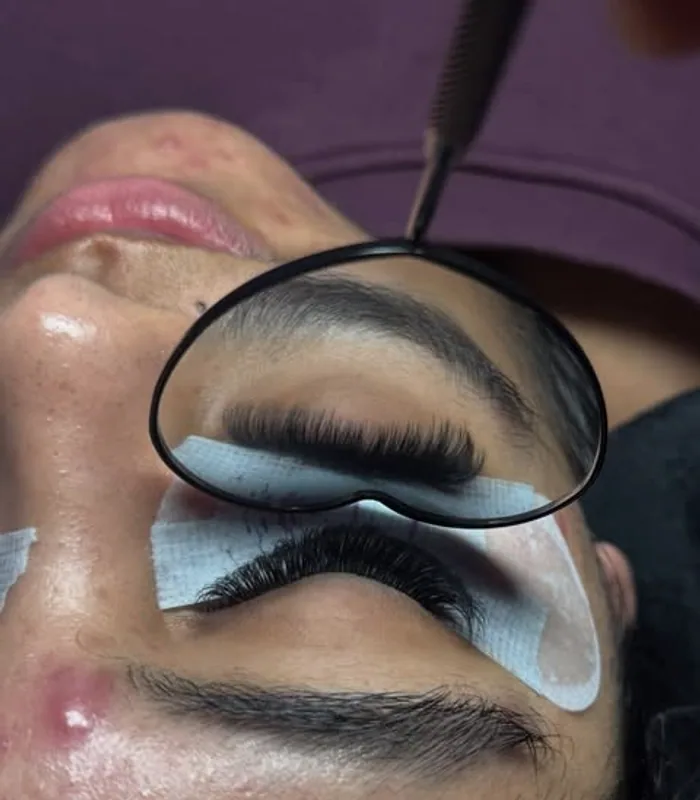
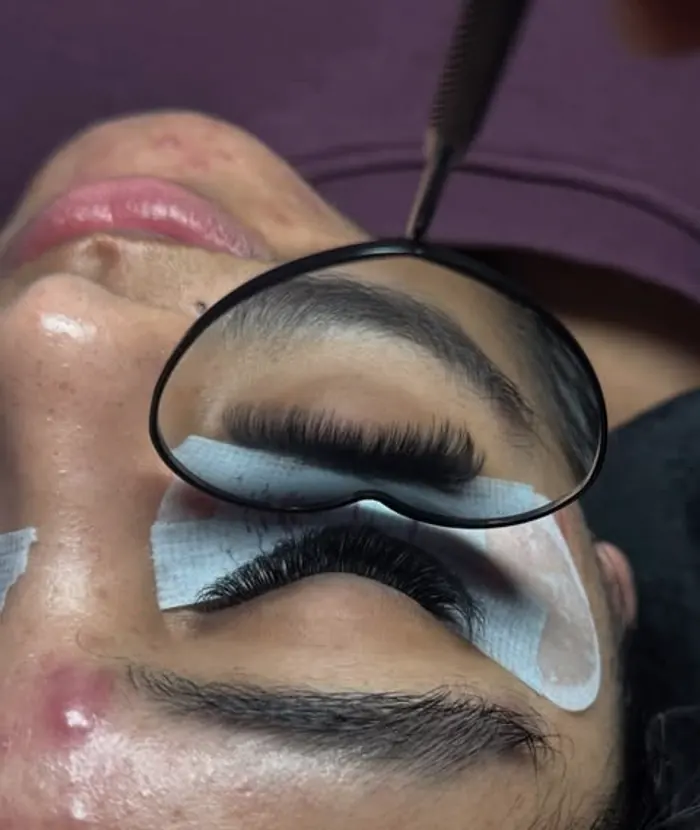
Speed up first load and cut hero GPU cost
- Preload the LCP hero image (stable name in /public) so it downloads in
  parallel with the JS instead of after React mounts
- Hero: drop the three full-screen blur-[120px+] blobs for a static
  gradient wash (large runtime blurs are expensive to composite on iOS
  Safari); run the ken-burns animation only on the visible slide and
  mount slides on demand
- Hero images: 3 slides instead of 4, 1100px max instead of upscaled
  1400px — ~40% smaller

diff --git a/src/components/Hero.tsx b/src/components/Hero.tsx
@@ -2,22 +2,20 @@ import { useEffect, useState } from 'react'
 import { site } from '../data/site'
 import { ArrowUpRight, Instagram } from './Icons'
 
-import hero1_700 from '../assets/hero/hero-1-700.webp'
-import hero1_1400 from '../assets/hero/hero-1-1400.webp'
 import hero2_700 from '../assets/hero/hero-2-700.webp'
-import hero2_1400 from '../assets/hero/hero-2-1400.webp'
+import hero2_1100 from '../assets/hero/hero-2-1100.webp'
 import hero3_700 from '../assets/hero/hero-3-700.webp'
-import hero3_1400 from '../assets/hero/hero-3-1400.webp'
-import hero4_700 from '../assets/hero/hero-4-700.webp'
-import hero4_1400 from '../assets/hero/hero-4-1400.webp'
+import hero3_1100 from '../assets/hero/hero-3-1100.webp'
 
-// Real lash work from the studio, auto cross-fading behind the hero.
-// Self-hosted so the LCP image doesn't wait on a third-party origin.
+// The first (LCP) slide is served from /public with a stable name so it can be
+// <link rel="preload">-ed in index.html and start downloading immediately.
+const lcp700 = `${import.meta.env.BASE_URL}hero/hero-lcp-700.webp`
+const lcp1100 = `${import.meta.env.BASE_URL}hero/hero-lcp-1100.webp`
+
 const slides = [
-  { src700: hero1_700, src1400: hero1_1400 },
-  { src700: hero2_700, src1400: hero2_1400 },
-  { src700: hero3_700, src1400: hero3_1400 },
-  { src700: hero4_700, src1400: hero4_1400 },
+  { src700: lcp700, src1100: lcp1100 },
+  { src700: hero2_700, src1100: hero2_1100 },
+  { src700: hero3_700, src1100: hero3_1100 },
 ]
 
 export function Hero() {
@@ -25,7 +23,7 @@ export function Hero() {
   const [loadRest, setLoadRest] = useState(false)
 
   useEffect(() => {
-    const t = window.setTimeout(() => setLoadRest(true), 1200)
+    const t = window.setTimeout(() => setLoadRest(true), 1400)
     return () => window.clearTimeout(t)
   }, [])
 
@@ -33,30 +31,39 @@ export function Hero() {
     if (window.matchMedia('(prefers-reduced-motion: reduce)').matches) return
     const id = window.setInterval(
       () => setActive((a) => (a + 1) % slides.length),
-      5000,
+      6000,
     )
     return () => window.clearInterval(id)
   }, [])
 
   return (
-    <section id="top" className="relative min-h-screen overflow-hidden bg-espresso">
+    <section
+      id="top"
+      className="relative min-h-screen overflow-hidden bg-espresso"
+      style={{
+        // Cheap static wash — no runtime blur compositing.
+        backgroundImage:
+          'radial-gradient(60% 50% at 50% 22%, rgba(155,109,214,0.28), transparent 70%), radial-gradient(50% 40% at 85% 80%, rgba(138,122,168,0.22), transparent 70%)',
+      }}
+    >
       {/* Auto-fading lash carousel */}
       <div className="absolute inset-0">
         {slides.map((s, i) => {
           const show = i === 0 || loadRest
+          if (!show) return null
           return (
             <img
-              key={s.src1400}
-              src={show ? s.src1400 : undefined}
-              srcSet={show ? `${s.src700} 700w, ${s.src1400} 1400w` : undefined}
+              key={i}
+              src={s.src1100}
+              srcSet={`${s.src700} 700w, ${s.src1100} 1100w`}
               sizes="100vw"
               alt=""
               aria-hidden="true"
               loading={i === 0 ? 'eager' : 'lazy'}
               fetchPriority={i === 0 ? 'high' : 'low'}
               decoding="async"
-              className={`animate-kenburns absolute inset-0 h-full w-full object-cover transition-opacity duration-[2200ms] ease-in-out ${
-                i === active ? 'opacity-100' : 'opacity-0'
+              className={`absolute inset-0 h-full w-full object-cover transition-opacity duration-[1600ms] ease-in-out ${
+                i === active ? 'animate-kenburns opacity-100' : 'opacity-0'
               }`}
             />
           )
@@ -64,10 +71,7 @@ export function Hero() {
       </div>
 
       {/* Violet veil so the wordmark and copy sit cleanly over the imagery */}
-      <div className="absolute inset-0 bg-espresso/55" />
-      <div className="absolute inset-0 bg-gradient-to-b from-espresso/80 via-espresso/45 to-espresso/95" />
-      <div className="pointer-events-none absolute left-1/2 top-1/4 h-[38rem] w-[38rem] -translate-x-1/2 rounded-full bg-rose/25 blur-[140px]" />
-      <div className="pointer-events-none absolute -right-24 bottom-1/4 h-96 w-96 rounded-full bg-mauve/20 blur-[120px]" />
+      <div className="absolute inset-0 bg-gradient-to-b from-espresso/85 via-espresso/50 to-espresso/95" />
 
       <div className="relative z-10 flex min-h-screen flex-col justify-between px-6 pb-10 pt-28 lg:px-10">
         <div className="flex flex-1 flex-col items-center justify-center text-center">

diff --git a/index.html b/index.html
@@ -10,6 +10,16 @@
     />
     <meta name="theme-color" content="#1b1330" />
 
+    <!-- Preload the LCP hero image so it downloads in parallel with the JS -->
+    <link
+      rel="preload"
+      as="image"
+      href="/hero/hero-lcp-1100.webp"
+      imagesrcset="/hero/hero-lcp-700.webp 700w, /hero/hero-lcp-1100.webp 1100w"
+      imagesizes="100vw"
+      fetchpriority="high"
+    />
+
     <!-- Open Graph -->
     <meta property="og:title" content="LASHED UP — Lash Studio in Surrey, BC" />
     <meta
